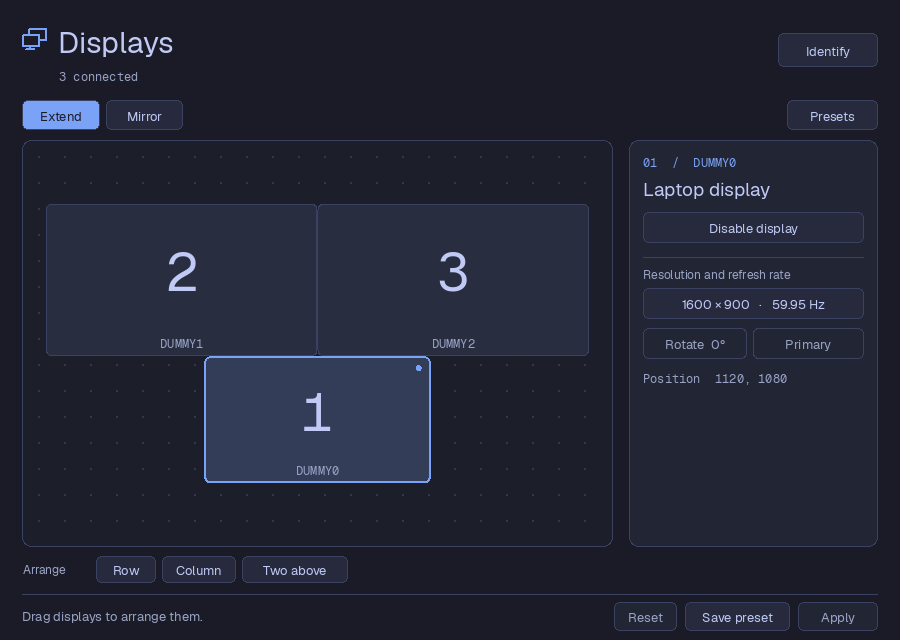
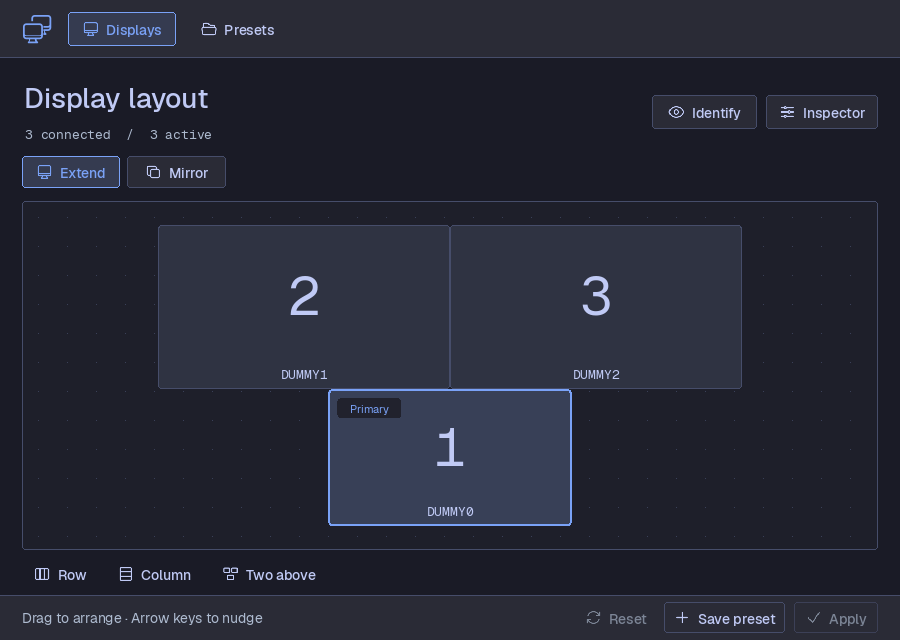
Show the redesigned editor and document display actions

diff --git a/README.md b/README.md
@@ -15,7 +15,7 @@ curl -fsSL https://raw.githubusercontent.com/mattmezza/undocked/main/install.sh 
 
 The installer verifies a checksum and installs a statically linked Linux binary
 for x86_64 or aarch64 in `~/.local/bin`. Run it again to upgrade, or pass a version
-with `sh -s -- v0.1.0`. Set `PREFIX` to choose another install prefix. You need
+with `sh -s -- v0.1.1`. Set `PREFIX` to choose another install prefix. You need
 an X11 session with RandR 1.3 or newer.
 
 Open the editor with `undocked`. For automatic switching, start the daemon from
@@ -23,31 +23,34 @@ your X session startup script. The applet uses the existing XEmbed tray in
 [mwm](https://github.com/mattmezza/mwm).
 
 ```sh
-undocked daemon --tray &
+undocked daemon &
 ```
 
 Left-click the tray icon for the editor, middle-click to identify screens, and
-right-click for the Launch picker. Omit `--tray` to run the watcher alone. The
-editor identifies itself as `Undocked` with an X11 dialog window type so mwm
-opens it centered and floating.
+right-click for the Launch picker. Set `tray = false` in the INI or start with
+`undocked daemon --no-tray` to run the watcher alone. The editor uses the
+`Undocked` window class and the X11 dialog type so mwm opens it centered and
+floating. The installer refreshes a running daemon in the current X session.
 
 ## Arrange displays
 
 - Drag the numbered displays to arrange them. Edges snap together. Use the arrow
   keys to move the selected display, or hold Shift for larger steps.
 - Click **Identify** to see the same numbers on the active screens. Connector
-  names appear on tiles and in the detail panel, including for disabled displays.
-- Select a display to change its resolution, refresh rate, orientation, primary
-  status, or power state. Pick **Mirror**, **Row**, **Column**, or **Two above**
-  for a starting layout.
+  names appear on the layout and in **Inspector**, including for disabled
+  displays.
+- Click a display tile to open the docked inspector and change its resolution,
+  refresh rate, orientation, primary status, or enabled state. Use **Mirror** or
+  one of the arrangement shortcuts below the canvas to start a layout.
 - Click **Apply** and then **Keep**. Undocked restores the previous layout if the
   countdown expires. If the old layout is unavailable, it tries a connected
   output at a supported mode.
-- Save the active layout with **Save preset**. Set **Autoapply** for the layout
-  you want when the same hardware is connected. The **Presets** menu can switch
-  layouts or change their automatic setting.
+- Open the **Presets** tab to load a saved layout or change its **Autoapply**
+  setting. **Save preset** opens the inline form and saves the active layout.
 
-![Undocked's save preset dialog with an Autoapply toggle](media/preset.png)
+![Undocked's docked inspector showing a connector, resolution, and refresh rate](media/inspector.png)
+
+![The Presets tab with two saved layouts and the inline new preset form](media/preset.png)
 
 ## Presets and configuration
 
@@ -76,18 +79,24 @@ after_change = if [ -r "$HOME/.fehbg" ]; then sh "$HOME/.fehbg"; fi
 
 Undocked ships Geist and Geist Mono. It inherits the mwm Xresources palette
 and supports `undocked.background`, `panel`, `foreground`, `muted`, `border`,
-`accent`, `onAccent`, `warning`, and `cornerRadius`. Set `undocked.font` and
-`undocked.mono` to font file paths, or use the respective INI settings.
+`accent`, `onAccent`, `warning`, and `cornerRadius`. Set `corner_radius` under
+`[ui]` to override the Xresources radius. The default is 4 px. Set
+`undocked.font` and `undocked.mono` to font file paths, or use the corresponding
+INI settings. Display numbers, connector names, resolutions, and refresh rates
+use the mono face.
 
 ## Launch and scripts
 
 Add this to [Launch](https://github.com/mattmezza/launch)'s `config.ini`.
-The picker includes the editor, Identify, compatible presets and arrangements,
-and pending confirmation actions.
+Search for a saved preset, Mirror or Extend, an arrangement, or an action for a
+specific connector such as **Disable DP-1** or **Make DP-1 primary**. Resolution
+and refresh-rate changes open a second picker with the connector's supported
+modes. Layout changes open Undocked for **Keep** or **Revert**, and both options
+are also available in Launch while confirmation is pending.
 
 ```ini
 [workflow Displays]
-keywords=monitor screen dock preset mirror resolution
+keywords=monitor screen dock preset mirror resolution enable disable refresh rate
 command=undocked launch
 ```
 
@@ -110,7 +119,7 @@ version, and commands report failure through their exit status.
 ## Build
 
 Source builds need a C11 toolchain, make, pkg-config, and the X11, RandR,
-FreeType, and HarfBuzz development libraries. CUI and the fonts are bundled.
+Xrender, FreeType, and HarfBuzz development libraries. CUI and the fonts are bundled.
 
 ```sh
 make
@@ -118,7 +127,7 @@ make check
 sudo make clean install
 ```
 
-`make check` uses Xvfb and xdotool. `make release name=v0.1.0` pushes a version
+`make check` uses Xvfb and xdotool. `make release name=v0.1.1` pushes a version
 tag. GitHub Actions builds, tests, and publishes the static binaries for both
 architectures with their checksums.
 
